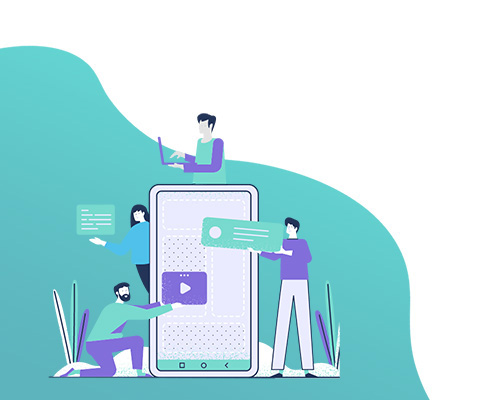
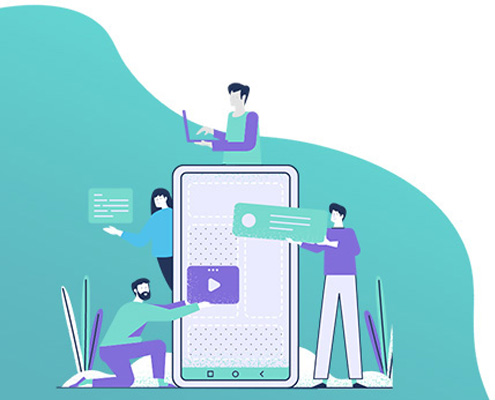
Done index ui & responsive

diff --git a/CBProject/Content/Site.css b/CBProject/Content/Site.css
@@ -155,7 +155,7 @@ textarea {
     }
 
 #quote {
-    margin-top: 15%;
+    margin-top: 20%;
     font-size: 45px;
     font-weight: bold;
 }
@@ -222,15 +222,15 @@ footer {
         font-weight: 600;
     }
 
-@media screen and (max-width: 1246px) and (min-width: 600px) {
+@media screen and (max-width: 1246px) {
     .bigImage .text {
         top: 4%;
 
     }
 
     #quote {
-        margin-top: 25%;
-        font-size: 35px;
+        margin-top: 20%;
+        font-size: 30px;
     }
 }
 
@@ -240,6 +240,10 @@ footer {
     }
     #home-big-title{
         margin-top:10%;
+    }
+    #quote {
+        margin-top: 10%;
+        font-size: 30px;
     }
 }
 @media screen and (max-width: 990px) {
@@ -252,10 +256,9 @@ footer {
     }
 
     #quote {
-        margin-top: 25%;
-        font-size: 35px;
+     
+        font-size: 25px;
     }
-
     .card {
         width: 70%;
         margin-left: 15%;
@@ -268,12 +271,28 @@ footer {
 }
 
 
-@media screen and (max-width: 768px) {
+@media screen and (max-width: 768px){
     .bigImage img {
         display: none;
     }
 
-    .home-search-bar{
-        margin-bottom:10%;
+    .home-search-bar {
+        margin-bottom: 10%;
+    }
+    .quote-img img{
+        display:none;
+    }
+    #quote {
+        margin-top: 8%;
+        margin-bottom:8%;
+        font-size: 30px;
+        text-align:center;
+    }
+}
+
+@media screen and (max-width: 1472px) and (min-width: 1247px) {
+    #quote {
+        margin-top: 25%;
+        font-size: 35px;
     }
 }
